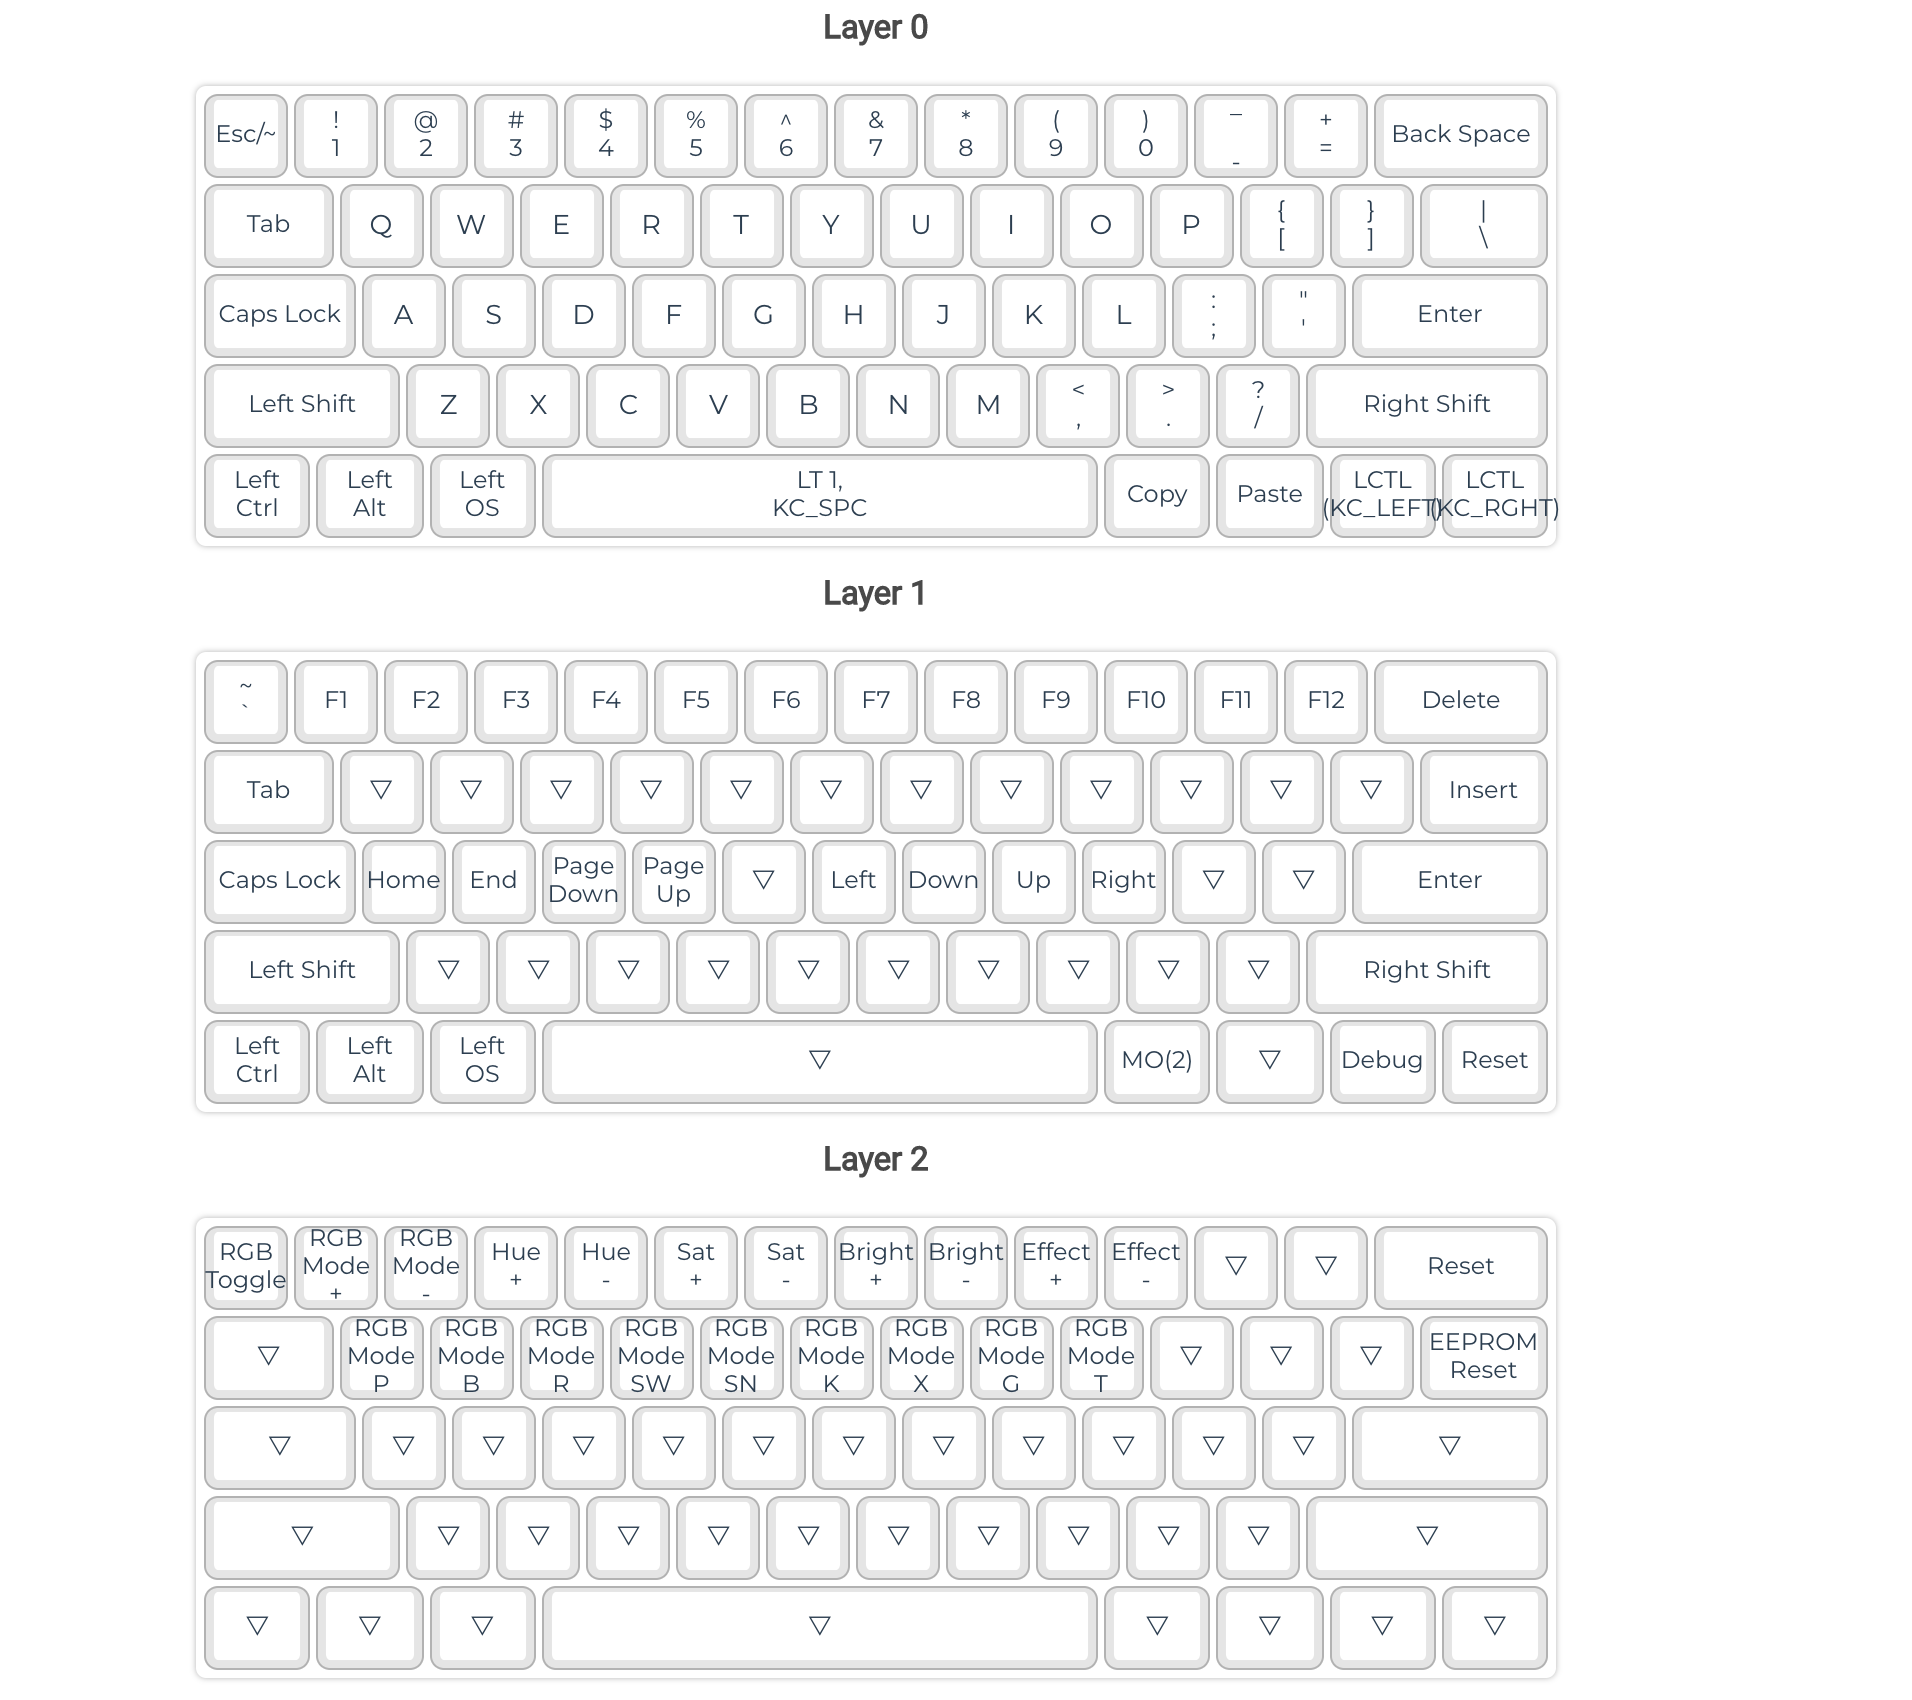
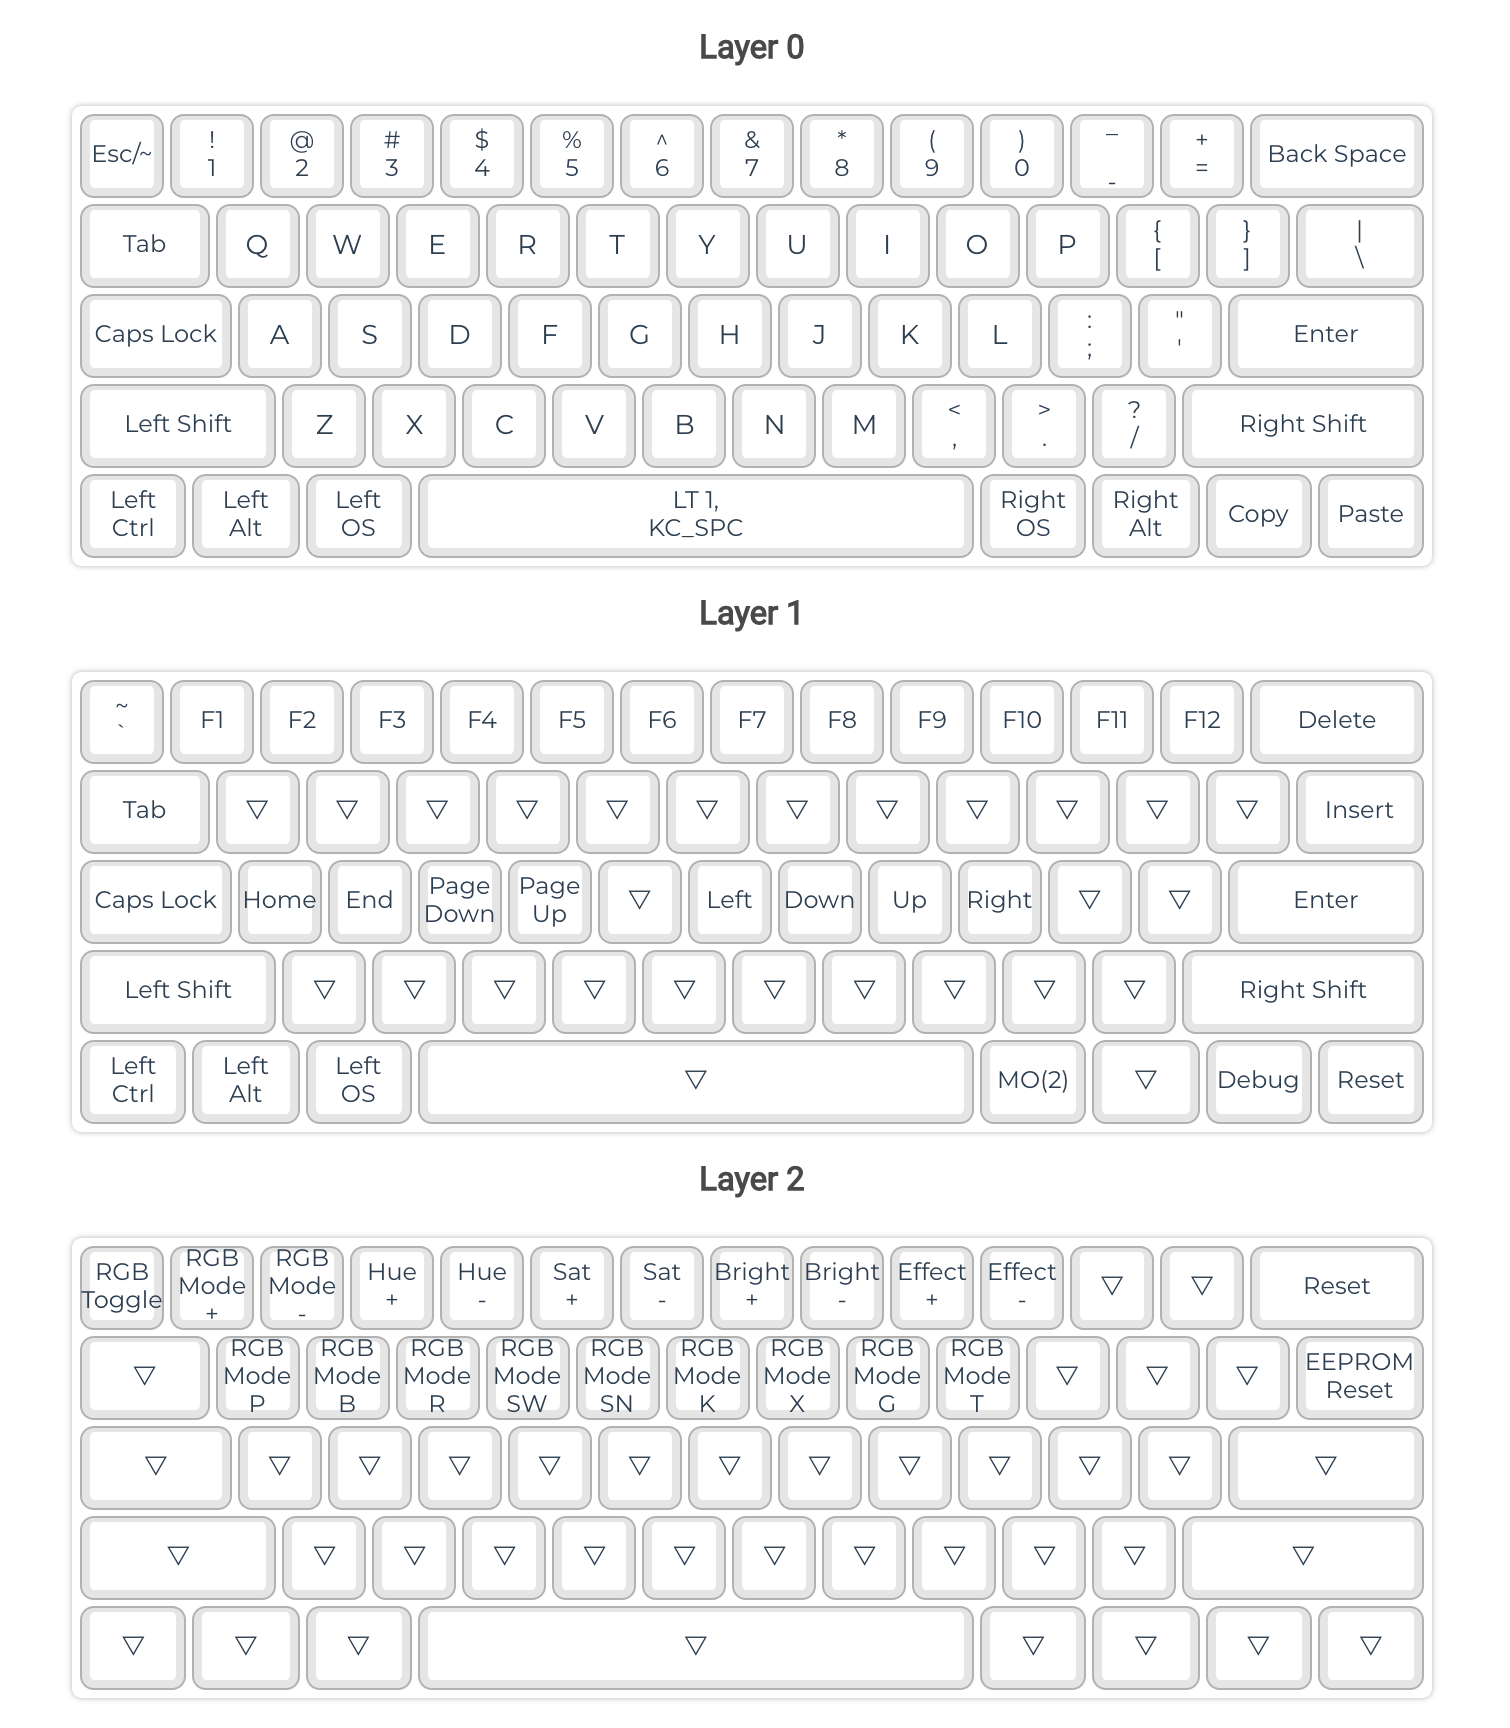
update layout

Changed region(s): [[0.0311, 0.0, 0.9649, 0.6859], [0.0311, 0.7171, 0.9649, 0.9976]]

diff --git a/changelog.md b/changelog.md
@@ -1,2 +1,5 @@
 ## 20210506
 常用键位设置
+
+## 20210507
+* 增加右 command 和 option 键
